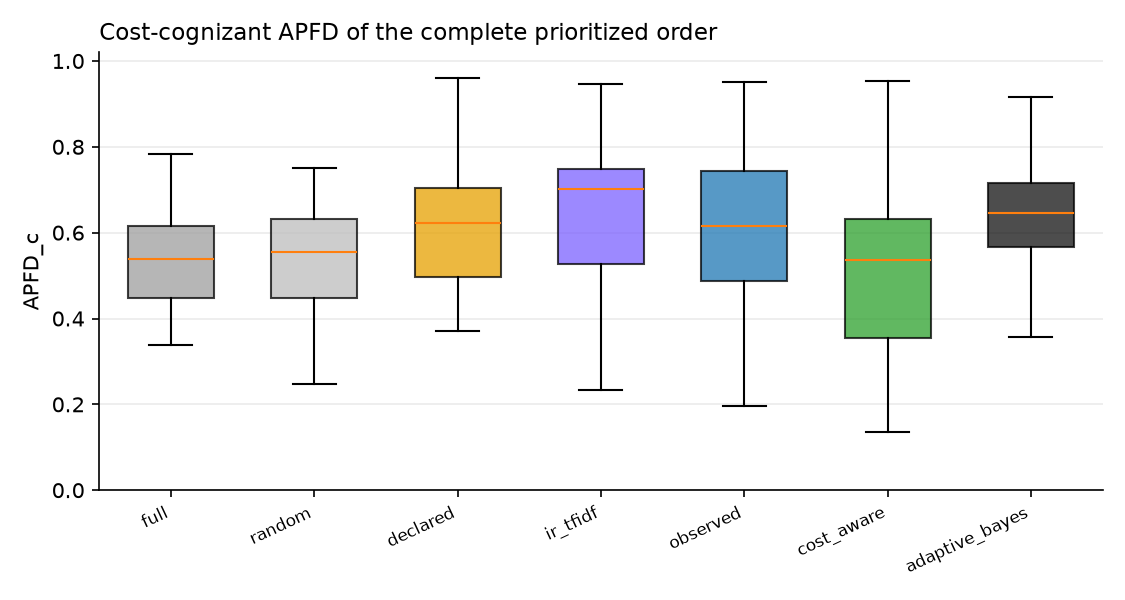
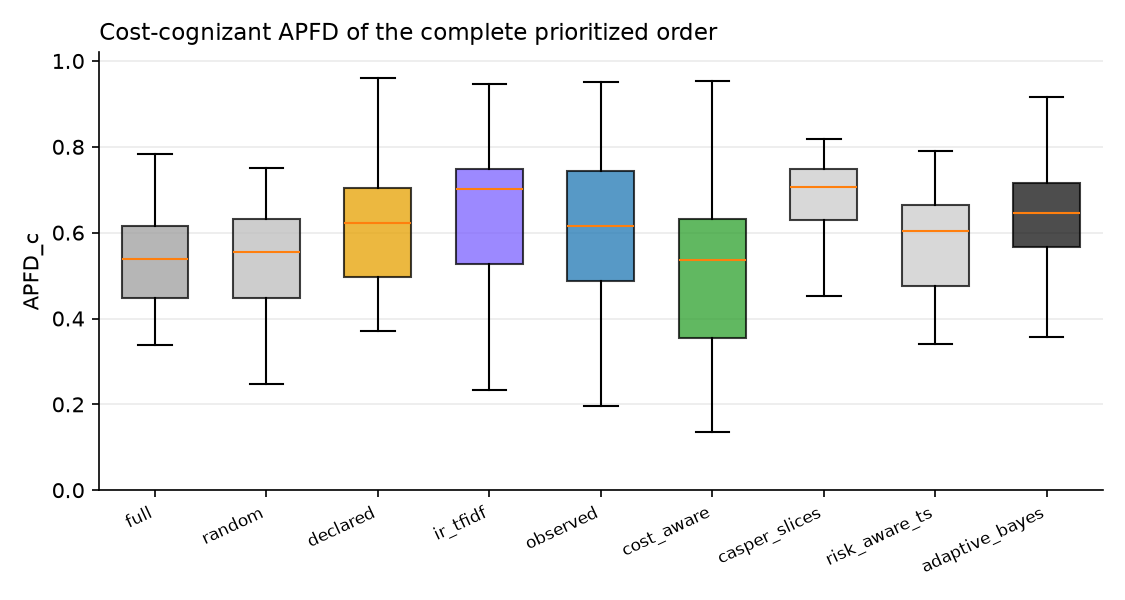
Qwen's recording replayed with the reproduced baselines: CASPER's slices sample the unstable tests
docs/results/qwen5 regenerated with the nine strategies; RESEARCH_PLAN §5.4 notes that CASPER's apparent 87%
there comes from two representatives among the tests that answer differently under batching.

diff --git a/trace-eval/docs/results/qwen5/report.md b/trace-eval/docs/results/qwen5/report.md
@@ -64,6 +64,8 @@ Fraction of regression-inducing changes detected, by nominal budget (% of full-s
 | ir_tfidf | 0.41 | 0.51 | 0.68 | 0.77 | 0.81 | 0.91 | 1.00 |
 | observed | 0.41 | 0.47 | 0.51 | 0.64 | 0.71 | 0.74 | 0.87 |
 | cost_aware | 0.41 | 0.47 | 0.51 | 0.64 | 0.73 | 0.80 | 0.99 |
+| casper_slices | 0.07 | 0.54 | 0.57 | 0.87 | 0.90 | 0.99 | 0.99 |
+| risk_aware_ts | 0.08 | 0.25 | 0.42 | 0.63 | 0.76 | 0.85 | 0.99 |
 | adaptive_bayes | 0.53 | 0.64 | 0.66 | 0.66 | 0.66 | 0.68 | 0.68 |
 
 Tokens actually spent on those changes (fraction of the full suite):
@@ -76,6 +78,8 @@ Tokens actually spent on those changes (fraction of the full suite):
 | ir_tfidf | 0.020 | 0.050 | 0.100 | 0.200 | 0.300 | 0.499 | 0.940 |
 | observed | 0.017 | 0.042 | 0.083 | 0.146 | 0.202 | 0.295 | 0.418 |
 | cost_aware | 0.020 | 0.050 | 0.100 | 0.199 | 0.299 | 0.499 | 0.939 |
+| casper_slices | 0.020 | 0.050 | 0.100 | 0.200 | 0.300 | 0.500 | 0.943 |
+| risk_aware_ts | 0.020 | 0.050 | 0.100 | 0.200 | 0.300 | 0.500 | 0.942 |
 | adaptive_bayes | 0.012 | 0.020 | 0.023 | 0.026 | 0.028 | 0.031 | 0.031 |
 
 Time spent on those changes (fraction of the full suite's run time, from each test's mean time on the original app):
@@ -88,6 +92,8 @@ Time spent on those changes (fraction of the full suite's run time, from each te
 | ir_tfidf | 0.019 | 0.050 | 0.111 | 0.224 | 0.332 | 0.535 | 0.998 |
 | observed | 0.016 | 0.041 | 0.087 | 0.152 | 0.208 | 0.308 | 0.467 |
 | cost_aware | 0.020 | 0.050 | 0.108 | 0.212 | 0.314 | 0.502 | 1.000 |
+| casper_slices | 0.027 | 0.055 | 0.105 | 0.228 | 0.345 | 0.574 | 1.000 |
+| risk_aware_ts | 0.021 | 0.057 | 0.121 | 0.249 | 0.374 | 0.588 | 1.000 |
 | adaptive_bayes | 0.012 | 0.019 | 0.023 | 0.026 | 0.028 | 0.031 | 0.031 |
 
 Critical regressions: the same detection rate, over the changes that break a safety property only:
@@ -100,6 +106,8 @@ Critical regressions: the same detection rate, over the changes that break a saf
 | ir_tfidf | 0.44 | 0.55 | 0.73 | 0.82 | 0.84 | 0.93 | 1.00 |
 | observed | 0.45 | 0.51 | 0.55 | 0.67 | 0.71 | 0.74 | 0.89 |
 | cost_aware | 0.45 | 0.51 | 0.55 | 0.67 | 0.76 | 0.80 | 0.98 |
+| casper_slices | 0.07 | 0.56 | 0.59 | 0.92 | 0.94 | 0.99 | 0.99 |
+| risk_aware_ts | 0.09 | 0.27 | 0.45 | 0.68 | 0.82 | 0.91 | 0.99 |
 | adaptive_bayes | 0.54 | 0.66 | 0.68 | 0.68 | 0.68 | 0.70 | 0.70 |
 
 ![detection vs cost](figures/detection_vs_cost.png)
@@ -114,6 +122,8 @@ Cost until the first true detection (fraction of the full suite, detected cases 
 | ir_tfidf | 0.064 |
 | observed | 0.063 |
 | cost_aware | 0.081 |
+| casper_slices | 0.074 |
+| risk_aware_ts | 0.123 |
 | adaptive_bayes | 0.017 |
 
 ## 3. Benign changes — wasted budget and stopping
@@ -141,6 +151,8 @@ APFD / cost-cognizant APFD of the complete order; selection recall = revealing t
 | ir_tfidf | 0.612 | 0.617 | 1.000 | 1.000 |
 | observed | 0.640 | 0.614 | 0.675 | 0.459 |
 | cost_aware | 0.457 | 0.512 | 1.000 | 1.000 |
+| casper_slices | 0.746 | 0.674 | 1.000 | 1.000 |
+| risk_aware_ts | 0.468 | 0.558 | 1.000 | 1.000 |
 | adaptive_bayes | 0.619 | 0.624 | 1.000 | 1.000 |
 
 ![apfdc](figures/apfdc.png)
@@ -177,6 +189,8 @@ Coverage of the affected properties (those of a change's revealing tests) by the
 | ir_tfidf | 0.34 | 0.49 | 0.66 | 0.77 | 0.81 | 0.92 | 1.00 |
 | observed | 0.22 | 0.36 | 0.53 | 0.76 | 0.82 | 0.82 | 0.88 |
 | cost_aware | 0.22 | 0.37 | 0.59 | 0.80 | 0.84 | 0.87 | 1.00 |
+| casper_slices | 0.31 | 0.40 | 0.74 | 0.79 | 0.81 | 0.98 | 1.00 |
+| risk_aware_ts | 0.40 | 0.66 | 0.73 | 0.77 | 0.79 | 0.81 | 1.00 |
 | adaptive_bayes | 0.32 | 0.42 | 0.46 | 0.46 | 0.46 | 0.46 | 0.46 |
 
 ## 6. Coverage
@@ -298,6 +312,8 @@ Changed components exercised:
 | ir_tfidf | 0.92 | 0.97 | 0.94 | 0.97 | 0.97 | 0.97 | 0.97 |
 | observed | 0.97 | 0.97 | 0.97 | 0.97 | 0.97 | 0.97 | 0.97 |
 | cost_aware | 0.97 | 0.97 | 0.97 | 0.97 | 0.97 | 0.97 | 0.97 |
+| casper_slices | 0.49 | 0.75 | 0.82 | 0.92 | 0.94 | 0.97 | 0.97 |
+| risk_aware_ts | 0.60 | 0.70 | 0.84 | 0.92 | 0.95 | 0.97 | 0.97 |
 | adaptive_bayes | 0.97 | 0.97 | 0.97 | 0.97 | 0.97 | 0.97 | 0.97 |
 
 Affected properties checked:
@@ -310,6 +326,8 @@ Affected properties checked:
 | ir_tfidf | 0.36 | 0.51 | 0.70 | 0.80 | 0.84 | 0.93 | 1.00 |
 | observed | 0.31 | 0.47 | 0.66 | 0.84 | 0.92 | 0.95 | 1.00 |
 | cost_aware | 0.33 | 0.51 | 0.69 | 0.85 | 0.91 | 0.95 | 1.00 |
+| casper_slices | 0.35 | 0.46 | 0.69 | 0.79 | 0.83 | 0.95 | 1.00 |
+| risk_aware_ts | 0.39 | 0.58 | 0.70 | 0.78 | 0.81 | 0.89 | 1.00 |
 | adaptive_bayes | 0.30 | 0.39 | 0.42 | 0.43 | 0.43 | 0.43 | 0.43 |
 
 Runs that found no regression and tested every affected mandatory property (the method's step 5):
@@ -322,6 +340,8 @@ Runs that found no regression and tested every affected mandatory property (the 
 | ir_tfidf | 0.05 | 0.12 | 0.29 | 0.43 | 0.50 | 0.70 | 1.00 |
 | observed | 0.05 | 0.13 | 0.48 | 0.76 | 0.81 | 0.93 | 1.00 |
 | cost_aware | 0.05 | 0.13 | 0.55 | 0.77 | 0.79 | 0.93 | 1.00 |
+| casper_slices | 0.05 | 0.05 | 0.35 | 0.83 | 0.92 | 0.96 | 1.00 |
+| risk_aware_ts | 0.06 | 0.13 | 0.39 | 0.80 | 0.96 | 1.00 | 1.00 |
 | adaptive_bayes | 0.21 | 0.61 | 0.90 | 1.00 | 1.00 | 1.00 | 1.00 |
 
 Affected workflows run (the workflows of the tests that exercised a changed component):
@@ -334,6 +354,8 @@ Affected workflows run (the workflows of the tests that exercised a changed comp
 | ir_tfidf | 0.02 | 0.20 | 0.44 | 0.63 | 0.74 | 0.83 | 1.00 |
 | observed | 0.02 | 0.17 | 0.42 | 0.55 | 0.63 | 0.72 | 1.00 |
 | cost_aware | 0.02 | 0.20 | 0.46 | 0.56 | 0.64 | 0.76 | 1.00 |
+| casper_slices | 0.00 | 0.00 | 0.17 | 0.72 | 0.84 | 0.98 | 1.00 |
+| risk_aware_ts | 0.05 | 0.21 | 0.46 | 0.76 | 0.92 | 1.00 | 1.00 |
 | adaptive_bayes | 0.03 | 0.07 | 0.09 | 0.09 | 0.09 | 0.09 | 0.09 |
 
 Affected features reached (the features with a tool or a part the change touches), over the changes that affect one:
@@ -346,6 +368,8 @@ Affected features reached (the features with a tool or a part the change touches
 | ir_tfidf | 0.88 | 0.94 | 0.94 | 0.98 | 1.00 | 1.00 | 1.00 |
 | observed | 0.70 | 0.76 | 0.87 | 1.00 | 1.00 | 1.00 | 1.00 |
 | cost_aware | 0.70 | 0.76 | 0.90 | 1.00 | 1.00 | 1.00 | 1.00 |
+| casper_slices | 0.13 | 0.51 | 0.82 | 0.94 | 0.98 | 1.00 | 1.00 |
+| risk_aware_ts | 0.38 | 0.68 | 0.83 | 0.94 | 0.97 | 1.00 | 1.00 |
 | adaptive_bayes | 0.82 | 0.84 | 0.86 | 0.86 | 0.86 | 0.86 | 0.86 |
 
 ## How to read this

diff --git a/trace-eval/docs/RESEARCH_PLAN.md b/trace-eval/docs/RESEARCH_PLAN.md
@@ -457,12 +457,14 @@ tests on the original app. It gets five of Gemma's six mistakes right and makes 
 routing skill says to stop after a failed step, it re-plans, as Adobe's Agent Orchestrator does: it repairs the
 page that failed the brand check, or has the broken link fixed, and goes on (`docs/EXPERIMENT.md` §6).
 
-Its recording is not a clean ground truth. Every regression is revealed, but so is every benign change, by two
-to five tests, including the no-op change whose change set is empty. Six tests (the two that Qwen judges itself,
-the 60-character boundary and three long workflows) answer differently when they run 64 at a time over three
-servers, as the changed copies do, than when they run one at a time, as the baseline does. Qwen's three runs also
-disagreed on 260 (change, test) pairs, against Gemma's five. The strategies' numbers on this recording are
-therefore not results; its report stays in `docs/results/qwen5/` as a record of the effect.
+Its recording is not a clean ground truth. Every regression is revealed, but so is every benign change, by two to
+five tests, including the no-op change whose change set is empty. Six tests (the two that Qwen judges itself, the
+60-character boundary and three long workflows) answer differently when they run 64 at a time over three servers,
+as the changed copies do, than when they run one at a time, as the baseline does. Qwen's three runs also disagreed
+on 260 (change, test) pairs, against Gemma's five. The strategies' numbers on this recording are therefore not
+results; its report stays in `docs/results/qwen5/` as a record of the effect. The two reproduced methods show the
+effect once more: CASPER's slices appear to detect 87% of the changes at a 20% budget there, because two of their
+twenty representatives, SEO-05 and WF4-02, are among the unstable tests and "reveal" 25 and 31 of the 43 changes.
 
 Two remedies fall short. vLLM 0.31's batch-invariant mode, which makes greedy decoding exactly repeatable, does
 not support Qwen3.8: the server refuses it for the model's linear-attention layers ("not supported for
